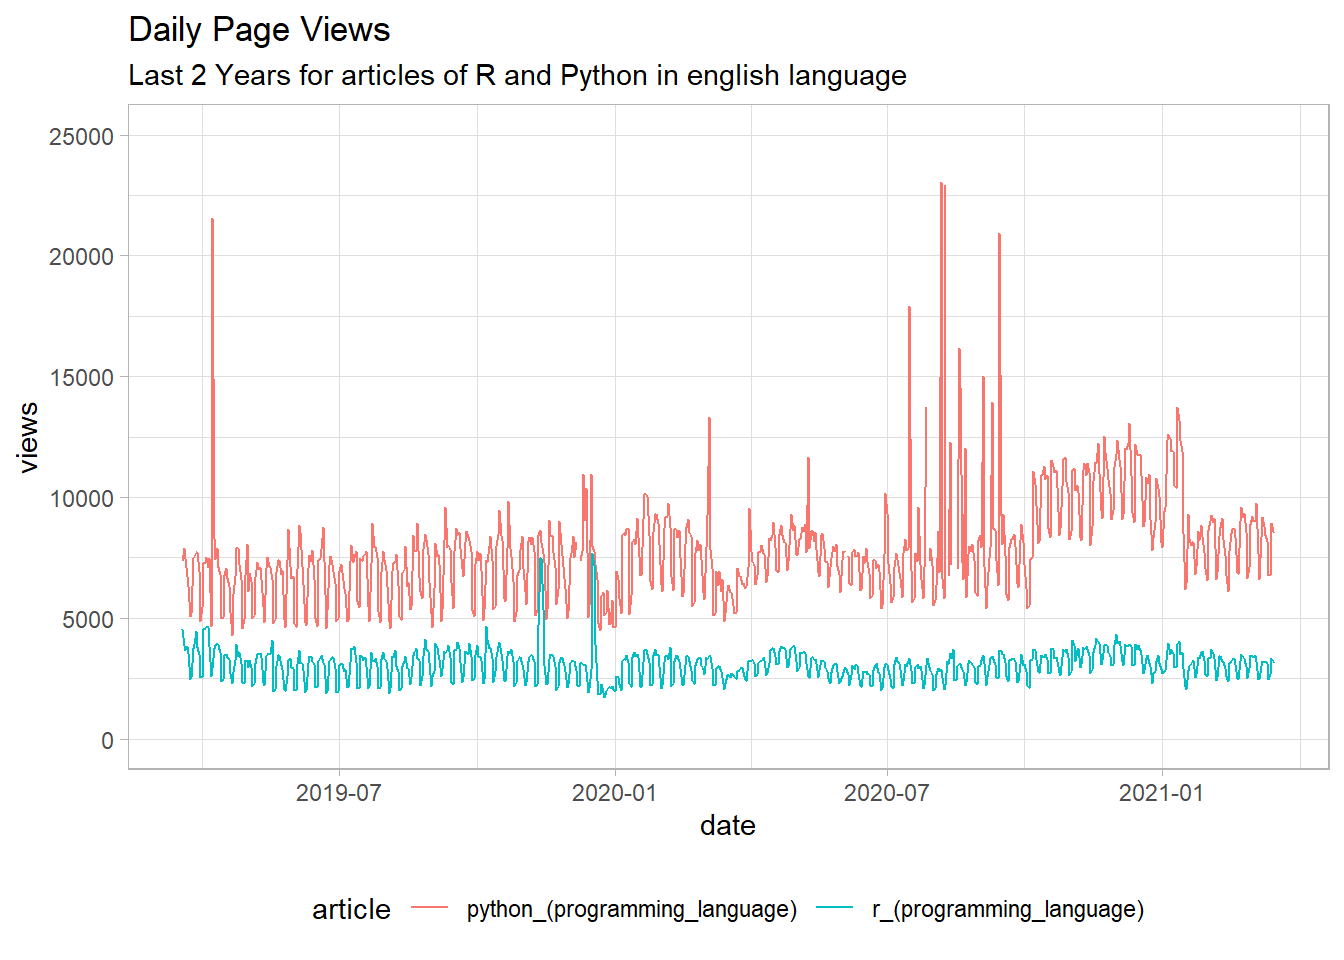
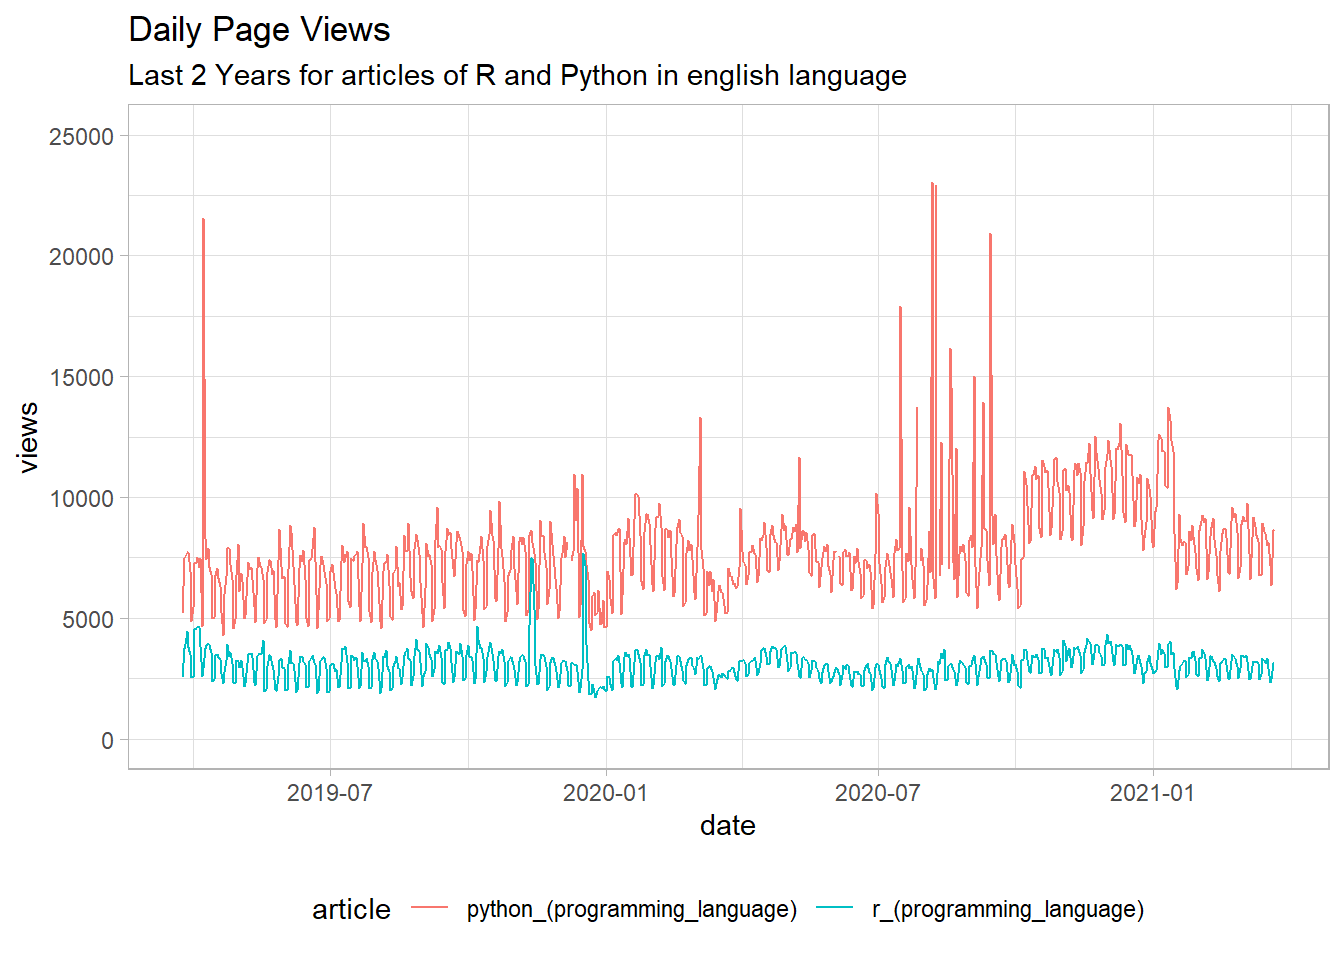
adding a chart for the control vs trend and the MCP package session

diff --git a/public/2021/03/chilling-effect-resulting-from-mass-surveillance.en-us/index.html b/public/2021/03/chilling-effect-resulting-from-mass-surveillance.en-us/index.html
@@ -365,10 +365,10 @@ en
 python_(programming_language)
 </td>
 <td style="text-align:left;">
-2019-03-18
+2019-03-24
 </td>
 <td style="text-align:right;">
-7341
+5215
 </td>
 </tr>
 <tr>
@@ -382,10 +382,10 @@ en
 r_(programming_language)
 </td>
 <td style="text-align:left;">
-2019-03-18
+2019-03-24
 </td>
 <td style="text-align:right;">
-4542
+2545
 </td>
 </tr>
 <tr>
@@ -399,10 +399,10 @@ en
 python_(programming_language)
 </td>
 <td style="text-align:left;">
-2019-03-19
+2019-03-25
 </td>
 <td style="text-align:right;">
-7880
+7463
 </td>
 </tr>
 <tr>
@@ -416,10 +416,10 @@ en
 r_(programming_language)
 </td>
 <td style="text-align:left;">
-2019-03-19
+2019-03-25
 </td>
 <td style="text-align:right;">
-3860
+3762
 </td>
 </tr>
 <tr>
@@ -433,10 +433,10 @@ en
 python_(programming_language)
 </td>
 <td style="text-align:left;">
-2019-03-20
+2019-03-26
 </td>
 <td style="text-align:right;">
-7469
+7568
 </td>
 </tr>
 <tr>
@@ -450,10 +450,10 @@ en
 r_(programming_language)
 </td>
 <td style="text-align:left;">
-2019-03-20
+2019-03-26
 </td>
 <td style="text-align:right;">
-3663
+3914
 </td>
 </tr>
 </tbody>
@@ -1376,6 +1376,65 @@ summary(mod2)</code></pre>
 ## Multiple R-squared:  0.924,  Adjusted R-squared:  0.9137 
 ## F-statistic: 90.28 on 7 and 52 DF,  p-value: &lt; 2.2e-16</code></pre>
 <p>To interpret the coefficients you need to remember that the reference group is the treatment group (=1). The Group dummy <span class="math inline">\(b_4\)</span> (coef <span class="math inline">\(G\)</span>) indicates the difference between the treatment and the control group. <span class="math inline">\(b_5\)</span> (coef <span class="math inline">\(T:G\)</span>) represents the slope difference between the intervention and control group in the pre-intervention period. <span class="math inline">\(b_6\)</span> (coef <span class="math inline">\(D:G\)</span>) represents the difference between the control and intervention group associated with the intervention. <span class="math inline">\(b_7\)</span> (coef <span class="math inline">\(P:G\)</span>) represents the difference between the sustained effect of the control and intervention group after the intervention.</p>
+<pre class="r"><code># can we see the points (trend and control) and the model fitted
+regr_control %&gt;% 
+  mutate(pred = predict(mod2)) %&gt;%
+  mutate( article = factor(G, labels = c(&quot;control&quot;,&quot;terror related&quot;))) %&gt;% 
+  ggplot(aes(x=date, color=article, group=article)) +
+  geom_point(aes(y=Y)) +
+  geom_line(aes(y=pred)) +
+  labs(title=&quot;Monthly Page Views&quot;,
+       subtitle = &quot;Terrorism Related Articles vs Control Group&quot;,
+       y=&quot;page views&quot;) +
+  theme_minimal()</code></pre>
+<p><img src="/post/bit-by-bit-chilling-effect/2021-03-19-chilling-effect-resulting-from-mass-surveillance.en-us_files/figure-html/unnamed-chunk-2-1.png" width="672" /></p>
+</div>
+<div id="extra-ii" class="section level2">
+<h2>Extra II</h2>
+<div id="finding-change-points-in-time-series" class="section level3">
+<h3>Finding Change Points in Time Series</h3>
+<p>After these analysis I was thinking if is possible to find automatically a change points in time series. The <em>Interrupted Time Series</em> analysis assume a “change point” and check if the series, in fact, changes its behavior. How to check if this is a transition point indeed? As we know a linear regression made of arbitrary choice of points (interval in this case) can find false patterns.</p>
+<p>Indeed, there is a plenty of R Packages can detect change points in a time series, ideal to make this type of analysis more robust. <a href="https://twitter.com/jonaslindeloev">Jonas Kristoffer Lindeløv</a> compared some of these packages in <a href="https://lindeloev.github.io/mcp/articles/packages.html">this vignette</a> of your <a href="https://lindeloev.net/mcp-regression-with-multiple-change-points/">own new package</a>: the <a href="https://lindeloev.github.io/mcp/">mcp package</a> to detect and do regressions with <a href="https://twitter.com/jonaslindeloev/status/1181515695948996609">multiple change points</a>.</p>
+<p>Let’s try use this package in your scenario:</p>
+<pre class="r"><code>library(mcp)
+
+# lets detect &quot;two&quot; linear trends
+# with interruption in the time series
+models &lt;- list( Y ~ 1 + T, ~ 1 + T)
+
+# fit the models
+set.seed(42)
+fit_mcp &lt;- mcp(models, data=regr_data, par_x = &quot;T&quot;)</code></pre>
+<pre><code>## Compiling model graph
+##    Resolving undeclared variables
+##    Allocating nodes
+## Graph information:
+##    Observed stochastic nodes: 30
+##    Unobserved stochastic nodes: 6
+##    Total graph size: 446
+## 
+## Initializing model</code></pre>
+<pre class="r"><code># checking what we find
+plot(fit_mcp)</code></pre>
+<p><img src="/post/bit-by-bit-chilling-effect/2021-03-19-chilling-effect-resulting-from-mass-surveillance.en-us_files/figure-html/mcpPackage-1.png" width="672" /></p>
+<pre class="r"><code># see the parameters
+fit_mcp</code></pre>
+<pre><code>## Family: gaussian(link = &#39;identity&#39;)
+## Iterations: 9000 from 3 chains.
+## Segments:
+##   1: Y ~ 1 + T
+##   2: Y ~ 1 ~ 1 + T
+## 
+## Population-level parameters:
+##     name    mean   lower   upper Rhat n.eff
+##     cp_1      17       9      19  1.0   183
+##    int_1 2624422 2189633 3018769  1.1    91
+##    int_2 2514952 2029134 3546651  1.2    23
+##  sigma_1  388638  277833  505014  1.0   563
+##      T_1   46473   -5651   97145  1.2    44
+##      T_2  -10744  -73057   34129  1.0  1563</code></pre>
+<p>That is cool, we can see that we detect a change point (parameter <span class="math inline">\(cp_1\)</span>) around the 16o period, that is june, in your dataset. The model also show us the parameters fitted in each linear regression (<span class="math inline">\(int\)</span> for intercepts and <span class="math inline">\(T\)</span> for slopes).</p>
+</div>
 </div>
 <div id="reference" class="section level2">
 <h2>Reference</h2>

diff --git a/content/post/bit-by-bit-chilling-effect/2021-03-19-chilling-effect-resulting-from-mass-surveillance.en-us.html b/content/post/bit-by-bit-chilling-effect/2021-03-19-chilling-effect-resulting-from-mass-surveillance.en-us.html
@@ -82,10 +82,10 @@ en
 python_(programming_language)
 </td>
 <td style="text-align:left;">
-2019-03-18
+2019-03-24
 </td>
 <td style="text-align:right;">
-7341
+5215
 </td>
 </tr>
 <tr>
@@ -99,10 +99,10 @@ en
 r_(programming_language)
 </td>
 <td style="text-align:left;">
-2019-03-18
+2019-03-24
 </td>
 <td style="text-align:right;">
-4542
+2545
 </td>
 </tr>
 <tr>
@@ -116,10 +116,10 @@ en
 python_(programming_language)
 </td>
 <td style="text-align:left;">
-2019-03-19
+2019-03-25
 </td>
 <td style="text-align:right;">
-7880
+7463
 </td>
 </tr>
 <tr>
@@ -133,10 +133,10 @@ en
 r_(programming_language)
 </td>
 <td style="text-align:left;">
-2019-03-19
+2019-03-25
 </td>
 <td style="text-align:right;">
-3860
+3762
 </td>
 </tr>
 <tr>
@@ -150,10 +150,10 @@ en
 python_(programming_language)
 </td>
 <td style="text-align:left;">
-2019-03-20
+2019-03-26
 </td>
 <td style="text-align:right;">
-7469
+7568
 </td>
 </tr>
 <tr>
@@ -167,10 +167,10 @@ en
 r_(programming_language)
 </td>
 <td style="text-align:left;">
-2019-03-20
+2019-03-26
 </td>
 <td style="text-align:right;">
-3663
+3914
 </td>
 </tr>
 </tbody>
@@ -1093,6 +1093,65 @@ summary(mod2)</code></pre>
 ## Multiple R-squared:  0.924,  Adjusted R-squared:  0.9137 
 ## F-statistic: 90.28 on 7 and 52 DF,  p-value: &lt; 2.2e-16</code></pre>
 <p>To interpret the coefficients you need to remember that the reference group is the treatment group (=1). The Group dummy <span class="math inline">\(b_4\)</span> (coef <span class="math inline">\(G\)</span>) indicates the difference between the treatment and the control group. <span class="math inline">\(b_5\)</span> (coef <span class="math inline">\(T:G\)</span>) represents the slope difference between the intervention and control group in the pre-intervention period. <span class="math inline">\(b_6\)</span> (coef <span class="math inline">\(D:G\)</span>) represents the difference between the control and intervention group associated with the intervention. <span class="math inline">\(b_7\)</span> (coef <span class="math inline">\(P:G\)</span>) represents the difference between the sustained effect of the control and intervention group after the intervention.</p>
+<pre class="r"><code># can we see the points (trend and control) and the model fitted
+regr_control %&gt;% 
+  mutate(pred = predict(mod2)) %&gt;%
+  mutate( article = factor(G, labels = c(&quot;control&quot;,&quot;terror related&quot;))) %&gt;% 
+  ggplot(aes(x=date, color=article, group=article)) +
+  geom_point(aes(y=Y)) +
+  geom_line(aes(y=pred)) +
+  labs(title=&quot;Monthly Page Views&quot;,
+       subtitle = &quot;Terrorism Related Articles vs Control Group&quot;,
+       y=&quot;page views&quot;) +
+  theme_minimal()</code></pre>
+<p><img src="/post/bit-by-bit-chilling-effect/2021-03-19-chilling-effect-resulting-from-mass-surveillance.en-us_files/figure-html/unnamed-chunk-2-1.png" width="672" /></p>
+</div>
+<div id="extra-ii" class="section level2">
+<h2>Extra II</h2>
+<div id="finding-change-points-in-time-series" class="section level3">
+<h3>Finding Change Points in Time Series</h3>
+<p>After these analysis I was thinking if is possible to find automatically a change points in time series. The <em>Interrupted Time Series</em> analysis assume a “change point” and check if the series, in fact, changes its behavior. How to check if this is a transition point indeed? As we know a linear regression made of arbitrary choice of points (interval in this case) can find false patterns.</p>
+<p>Indeed, there is a plenty of R Packages can detect change points in a time series, ideal to make this type of analysis more robust. <a href="https://twitter.com/jonaslindeloev">Jonas Kristoffer Lindeløv</a> compared some of these packages in <a href="https://lindeloev.github.io/mcp/articles/packages.html">this vignette</a> of your <a href="https://lindeloev.net/mcp-regression-with-multiple-change-points/">own new package</a>: the <a href="https://lindeloev.github.io/mcp/">mcp package</a> to detect and do regressions with <a href="https://twitter.com/jonaslindeloev/status/1181515695948996609">multiple change points</a>.</p>
+<p>Let’s try use this package in your scenario:</p>
+<pre class="r"><code>library(mcp)
+
+# lets detect &quot;two&quot; linear trends
+# with interruption in the time series
+models &lt;- list( Y ~ 1 + T, ~ 1 + T)
+
+# fit the models
+set.seed(42)
+fit_mcp &lt;- mcp(models, data=regr_data, par_x = &quot;T&quot;)</code></pre>
+<pre><code>## Compiling model graph
+##    Resolving undeclared variables
+##    Allocating nodes
+## Graph information:
+##    Observed stochastic nodes: 30
+##    Unobserved stochastic nodes: 6
+##    Total graph size: 446
+## 
+## Initializing model</code></pre>
+<pre class="r"><code># checking what we find
+plot(fit_mcp)</code></pre>
+<p><img src="/post/bit-by-bit-chilling-effect/2021-03-19-chilling-effect-resulting-from-mass-surveillance.en-us_files/figure-html/mcpPackage-1.png" width="672" /></p>
+<pre class="r"><code># see the parameters
+fit_mcp</code></pre>
+<pre><code>## Family: gaussian(link = &#39;identity&#39;)
+## Iterations: 9000 from 3 chains.
+## Segments:
+##   1: Y ~ 1 + T
+##   2: Y ~ 1 ~ 1 + T
+## 
+## Population-level parameters:
+##     name    mean   lower   upper Rhat n.eff
+##     cp_1      17       9      19  1.0   183
+##    int_1 2624422 2189633 3018769  1.1    91
+##    int_2 2514952 2029134 3546651  1.2    23
+##  sigma_1  388638  277833  505014  1.0   563
+##      T_1   46473   -5651   97145  1.2    44
+##      T_2  -10744  -73057   34129  1.0  1563</code></pre>
+<p>That is cool, we can see that we detect a change point (parameter <span class="math inline">\(cp_1\)</span>) around the 16o period, that is june, in your dataset. The model also show us the parameters fitted in each linear regression (<span class="math inline">\(int\)</span> for intercepts and <span class="math inline">\(T\)</span> for slopes).</p>
+</div>
 </div>
 <div id="reference" class="section level2">
 <h2>Reference</h2>
